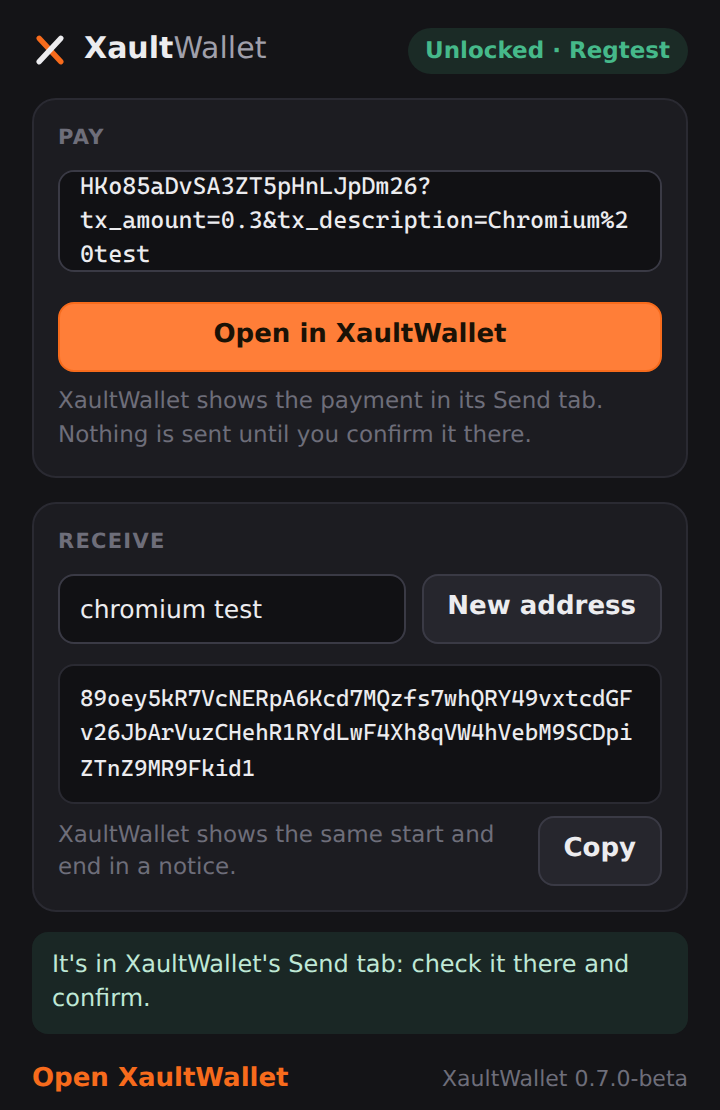
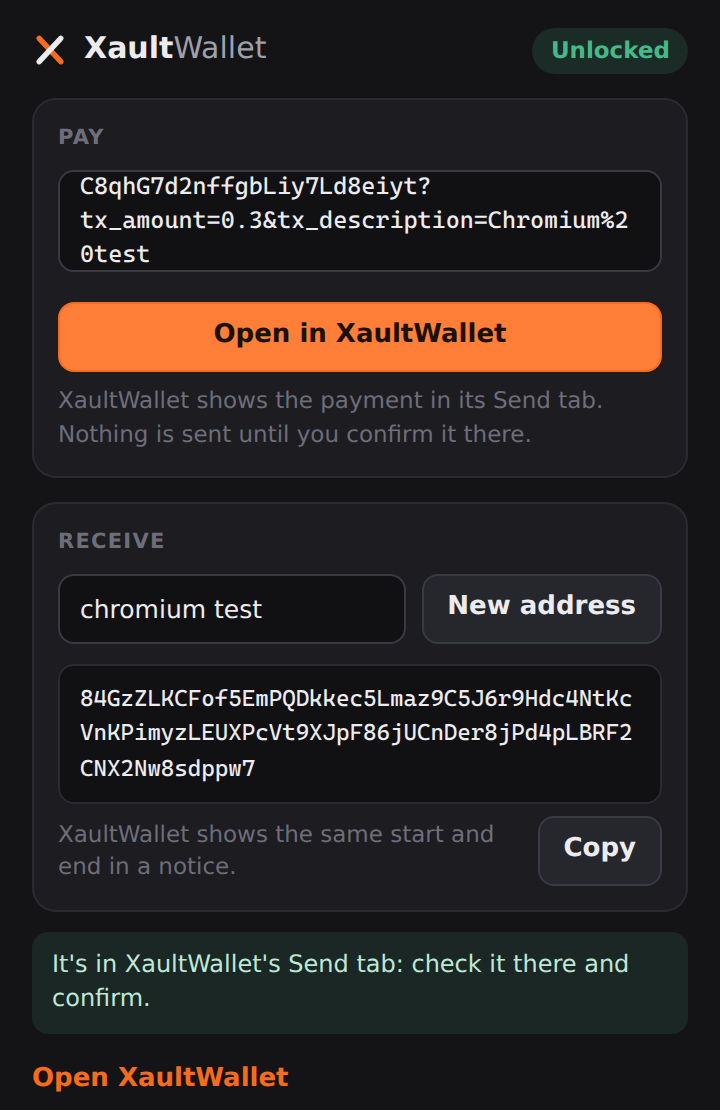
Companion docs match the click-only buttons; popup screenshots without the network
Give address and Allow take a click now, so the docs and comments no longer say a key
press can press them (with Enhanced Security on, other programs' input is dropped).
The two extension popup screenshots are shot again from real Chromium: status no longer
carries the network or the version. The real-browser hold mode connects and allows
Firefox as well and presses Give address like a person at the app; Chromium and Firefox
both pass against the published Linux build.

diff --git a/tests/XaultWallet.E2E.Headless/Program.cs b/tests/XaultWallet.E2E.Headless/Program.cs
@@ -143,9 +143,20 @@ internal static class Program
         File.WriteAllText(Path.Combine(holdDir, "ready.json"), ready);
         log("Holding for the browser tests: " + ready);
 
+        // The browsers are connected and allowed (Chrome above, Firefox here), as after Connect and Allow.
+        AppServices.Instance.Settings.ConnectedBrowsers.Add("firefox");
+        AppServices.Instance.Settings.AllowedExtensions.Add(CompanionAccess.PairingKey(CompanionCaller.Firefox)!);
+
+        // A person at the app: a browser's receive request only asks, so press Give address when it shows
+        // (it ignores clicks for a moment after it appears: the next turn tries again).
         DateTime until = DateTime.UtcNow.AddMinutes(20);
         while (!File.Exists(Path.Combine(holdDir, "done")) && DateTime.UtcNow < until)
         {
+            if (await driver.IsVisibleAsync("Shell.ReceiveAsk"))
+            {
+                try { await driver.ClickAsync("Shell.AllowReceive"); } catch (Exception) { /* held a moment */ }
+            }
+
             await Task.Delay(500);
         }
 

diff --git a/src/XaultWallet.Core/Companion/CompanionReceiveGate.cs b/src/XaultWallet.Core/Companion/CompanionReceiveGate.cs
@@ -2,8 +2,8 @@ namespace XaultWallet.Core.Companion;
 
 /// <summary>
 /// A browser's "receive" makes a new subaddress and records it in the vault, so it waits for the user:
-/// the first request only asks (the app shows "Give address"); once the user allows it in the app (with
-/// Enhanced Security on, only the user's own input can, not another program's), the next request from the same site, for the same wallet,
+/// the first request only asks (the app shows "Give address"); once the user allows it in the app (a click:
+/// no key presses the button, and with Enhanced Security on another program's input is dropped), the next request from the same site, for the same wallet,
 /// within <see cref="Lifetime"/>, gets its address. One allowance, one address. Not thread-safe: the app
 /// uses it on the UI thread.
 /// </summary>

diff --git a/src/XaultWallet.Desktop/ViewModels/MainWindowViewModel.cs b/src/XaultWallet.Desktop/ViewModels/MainWindowViewModel.cs
@@ -431,8 +431,8 @@ public sealed partial class MainWindowViewModel : ViewModelBase
 
     public bool ReceiveAskHeld => _receiveAskHold?.Held ?? false;
 
-    /// <summary>The user allows the waiting request (with Enhanced Security on, only the user's own input can,
-    /// not another program's): the browser's next request from that site gets its address.</summary>
+    /// <summary>The user allows the waiting request (a click: the button takes no key press, and with Enhanced
+    /// Security on another program's input is dropped): the browser's next request from that site gets its address.</summary>
     [RelayCommand]
     private void AllowReceiveRequest()
     {

diff --git a/SECURITY.md b/SECURITY.md
@@ -372,8 +372,8 @@ and one that would replace a form you filled, or a payment that may have gone ou
 waits behind *Open it* instead. *Review* and *Send now* ignore clicks for a moment after a request
 lands or the confirmation appears. A new receive address is made only after you press *Give address*
 in the app for that site (a request just asks; like *Send now*, it ignores clicks for a moment after
-it appears, because the window comes forward with it; with Enhanced Security on, only your own keyboard,
-mouse, touchscreen or pen can press it, not another program), so a program on the channel can't quietly add subaddresses to your vault; it is announced across the
+it appears, because the window comes forward with it; it takes a click, no key presses it;
+with Enhanced Security on, input from another program is dropped), so a program on the channel can't quietly add subaddresses to your vault; it is announced across the
 top of the window with its start and end, and only while the wallet is on screen. It is labelled just
 *Browser* unless you turn on *Label browser addresses with the site* (Settings): off, the vault
 doesn't record which sites you gave addresses to. While the app is locked, the lock

diff --git a/docs/BROWSER-COMPANION.md b/docs/BROWSER-COMPANION.md
@@ -188,8 +188,8 @@ stealing.
   replace a form you filled, or a payment that may have gone out, waits behind *Open it*. *Review* and
   *Send now* ignore clicks for a moment after a request lands or the confirmation appears. A new
   receive address is made only after you press *Give address* in the app (which, like *Send now*,
-  ignores clicks for a moment after it appears, because the window comes forward with it; with Enhanced Security on,
-  only your own keyboard, mouse, touchscreen or pen can, not another program), is announced across the top of the app's window with its start and end, and
+  ignores clicks for a moment after it appears, because the window comes forward with it; it takes a click, no key
+  presses it, and with Enhanced Security on input from another program is dropped), is announced across the top of the app's window with its start and end, and
   labelled *Browser* on the Receive tab, to compare with what the browser shows. The page a request
   came from is what the extension reports; a program on your computer can claim any page.
 - **Being repointed.** At every start, and when its window comes back to the front, XaultWallet checks
